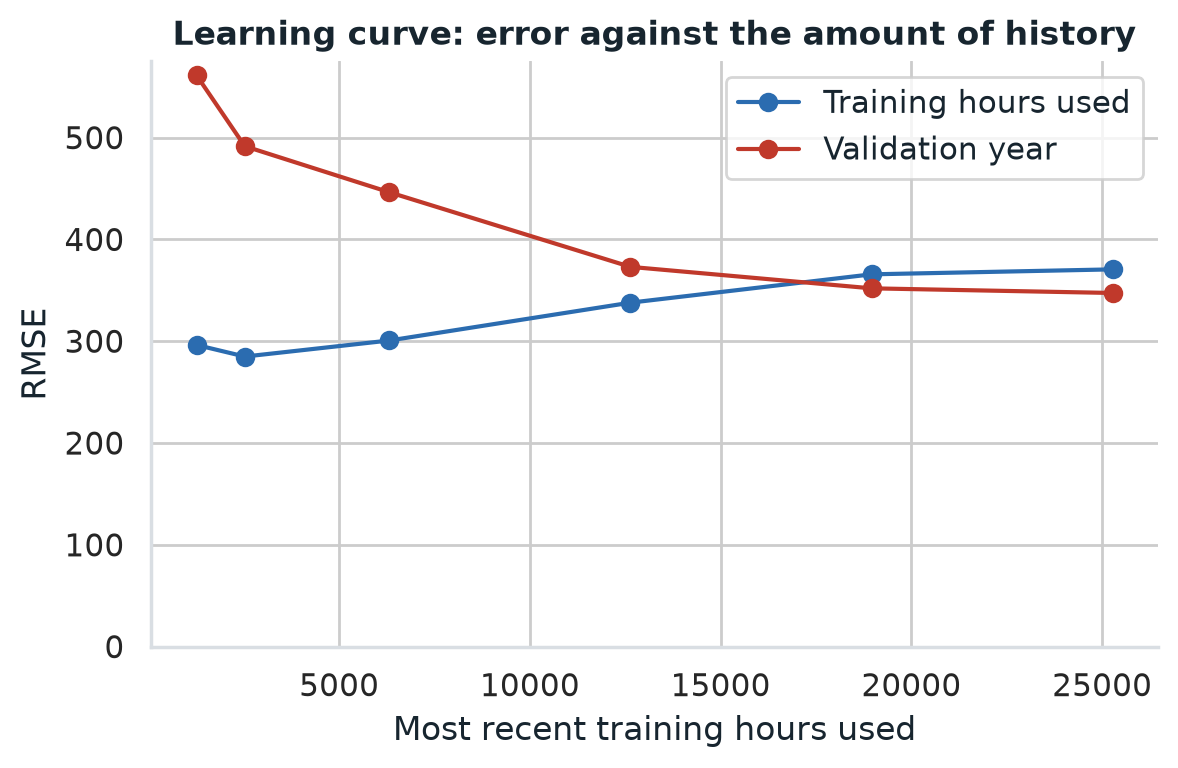
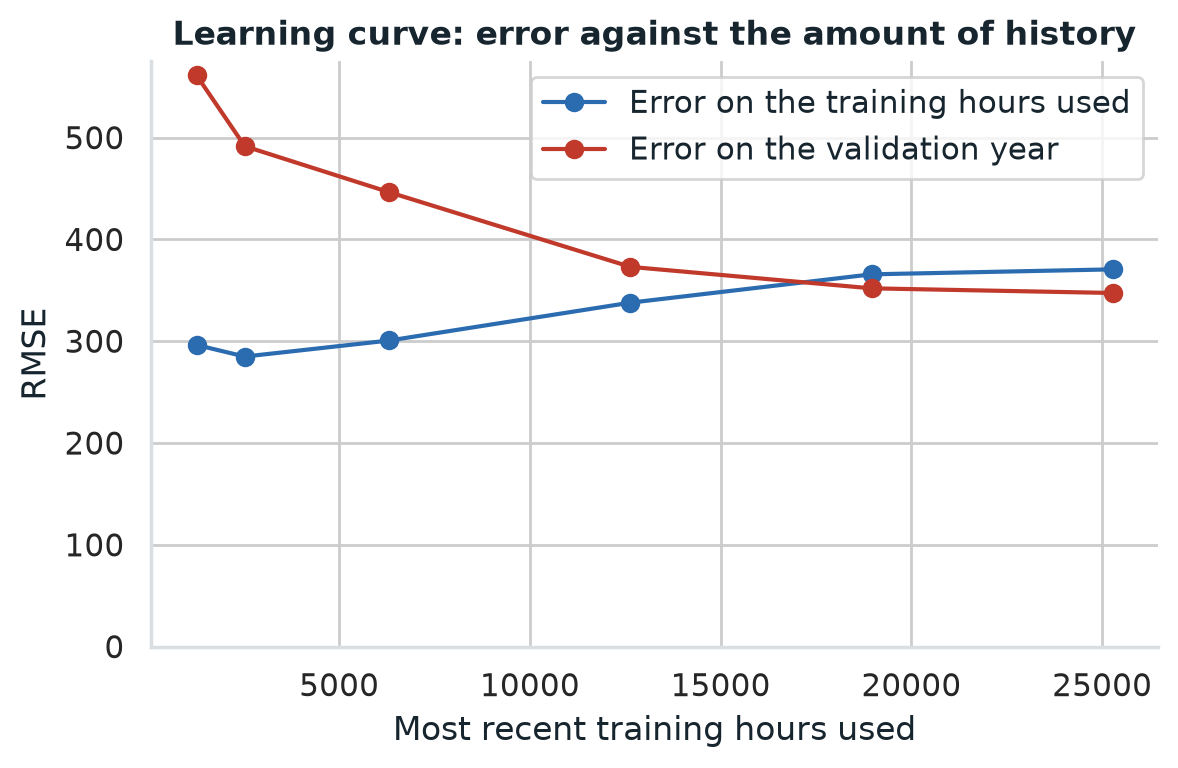
Work in progress on the review fixes that need a notebook re-run
Figure fixes (learning-curve legend, overlapping labels, interval bar,
closure hours) and latency wording, with the pipeline figures regenerated.
The notebook has not been re-executed with these changes, so main still
matches the submitted files.

Changed region(s): [[0.4584, 0.0938, 0.9168, 0.25]]

diff --git a/src/traffic_volume/plotting.py b/src/traffic_volume/plotting.py
@@ -98,7 +98,8 @@ def plot_low_volume(clean_before: pd.DataFrame, target: str, threshold: int):
     fig, axes = plt.subplots(1, 2, figsize=(11, 3.4))
     axes[0].hist(np.log10(v.clip(lower=1)), bins=80, color=PALETTE["green"])
     axes[0].axvline(np.log10(threshold), color=PALETTE["red"], ls="--", label=f"{threshold} vehicles")
-    axes[0].set(xlabel="Vehicles per hour (log10)", ylabel="Hours", title="A handful of hours far below the rest")
+    axes[0].set_yscale("log")
+    axes[0].set(xlabel="Vehicles per hour (log10)", ylabel="Hours (log scale)", title="A handful of hours far below the rest")
     axes[0].legend()
     low = clean_before[v < threshold]
     per_day = low.groupby(low["date_time"].dt.strftime("%Y-%m-%d")).size().sort_values(ascending=False).head(8)[::-1]
@@ -258,8 +259,8 @@ def plot_finalists(comparison: list[dict], champion_label: str, tolerance: float
 def plot_learning_curve(lc: dict):
     fig, ax = plt.subplots(figsize=(6.5, 3.8))
     sizes = np.array(lc["train_sizes"])
-    ax.plot(sizes, lc["train_rmse"], marker="o", color=PALETTE["blue"], label="Training hours used")
-    ax.plot(sizes, lc["val_rmse"], marker="o", color=PALETTE["red"], label="Validation year")
+    ax.plot(sizes, lc["train_rmse"], marker="o", color=PALETTE["blue"], label="Error on the training hours used")
+    ax.plot(sizes, lc["val_rmse"], marker="o", color=PALETTE["red"], label="Error on the validation year")
     ax.set(xlabel="Most recent training hours used", ylabel="RMSE", ylim=(0, None),
            title="Learning curve: error against the amount of history")
     ax.legend()
@@ -396,10 +397,10 @@ def plot_variable_models(table: pd.DataFrame):
 def plot_incremental(inc: pd.DataFrame):
     fig, ax = plt.subplots(figsize=(8.5, 3.8))
     ax.plot(inc["variables"], inc["rmse"], marker="o", color=PALETTE["green"])
-    for _, r in inc.iterrows():
-        ax.annotate(f"+{r['added']}", (r["variables"], r["rmse"]), textcoords="offset points", xytext=(0, 8),
-                    ha="center", fontsize=8)
-    ax.set(xlabel="Variables used (added in order of importance)", ylabel="Validation RMSE", ylim=(0, None),
+    for i, (_, r) in enumerate(inc.iterrows()):   # labels alternate between two heights so that they never overlap
+        ax.annotate(f"+{r['added']}", (r["variables"], r["rmse"]), textcoords="offset points",
+                    xytext=(0, 8 if i % 2 == 0 else 22), ha="center", fontsize=8)
+    ax.set(xlabel="Variables used (added in order of importance)", ylabel="Validation RMSE", ylim=(0, inc["rmse"].max() * 1.12),
            title="Error as variables are added one at a time")
     return fig
 
@@ -439,8 +440,8 @@ def plot_test_results(test: dict):
     j = names.index("champion")
     ax.errorbar([j], [rmse[j]], yerr=[[rmse[j] - ci["low"]], [ci["high"] - rmse[j]]], color=PALETTE["ink"],
                 capsize=4, fmt="none")
-    for i, v in enumerate(rmse):
-        ax.text(i, v + 12, f"{v:.0f}", ha="center", fontsize=9)
+    for i, v in enumerate(rmse):   # the champion's value sits above its interval bar, not across it
+        ax.text(i, (ci["high"] if i == j else v) + 12, f"{v:.0f}", ha="center", fontsize=9)
     ax.tick_params(axis="x", labelsize=8)
     ax.set(ylabel="Test RMSE (vehicles per hour)", ylim=(0, max(rmse) * 1.12),
            title="Test year, every pre-declared model (bar: 95% block-bootstrap CI)")

diff --git a/src/traffic_volume/monitoring/latency.py b/src/traffic_volume/monitoring/latency.py
@@ -34,7 +34,9 @@ def post_json(url: str, body: dict, timeout: float = 30.0) -> tuple[dict, float,
 
 
 def replay_requests(base_url: str, rows: pd.DataFrame, expected: np.ndarray | None = None) -> dict:
-    """Send each hour as one request; the first request is reported separately (cold start)."""
+    """Send each hour as one request. The first request is reported separately, because it may have to wait
+    for the platform to start an instance; requests slower than five seconds are counted, so that a long tail
+    is reported and not hidden behind the percentiles."""
     url = base_url.rstrip("/") + "/api/v1/predict"
     client, server, diffs, errors = [], [], [], 0
     for i, row in enumerate(rows.to_dict("records")):
@@ -51,9 +53,12 @@ def replay_requests(base_url: str, rows: pd.DataFrame, expected: np.ndarray | No
     if not client:
         raise RuntimeError(f"no successful requests to {url}")
     warm = np.array(client[1:]) if len(client) > 1 else np.array(client)
+    slow_threshold_ms = 5000.0
     return {"url": url, "requests": len(rows), "errors": errors, "error_rate": errors / len(rows),
             "first_request_ms": float(client[0]), "warm_p50_ms": float(np.percentile(warm, 50)),
             "warm_p95_ms": float(np.percentile(warm, 95)), "warm_p99_ms": float(np.percentile(warm, 99)),
+            "warm_max_ms": float(warm.max()), "slow_threshold_ms": slow_threshold_ms,
+            "slow_requests": int((warm > slow_threshold_ms).sum()),
             "server_p50_ms": float(np.percentile(server, 50)) if server else None,
             "max_abs_diff_vs_offline": float(max(diffs)) if diffs else None,
             "client_latencies_ms": [float(v) for v in client]}
